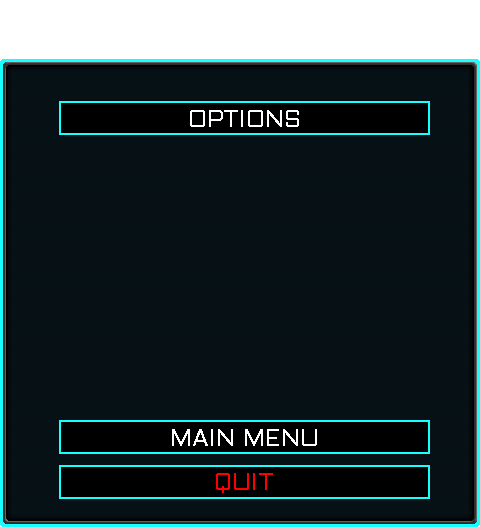
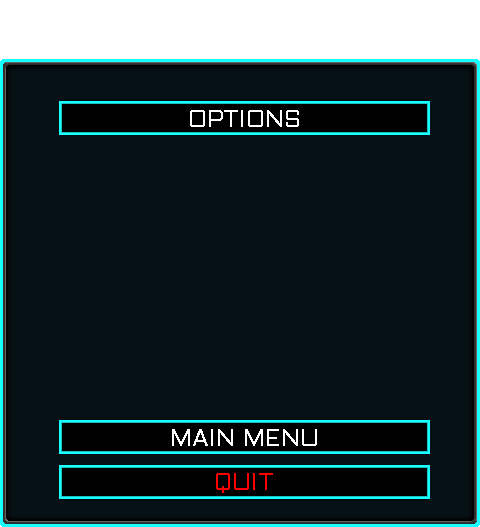
v0.04 	modified:   Main.py 	modified:   MenuManager.py 	modified:   __pycache__/MenuManager.cpython-311.pyc 	modified:   gfx/Interface/ESC_menu_background.png 	modified:   gfx/Interface/hovered_green_button_menu_image.png 	modified:   gfx/Interface/hovered_red_button_menu_image.png 	new file:   gfx/

Changed region(s): [[0.125, 0.8805, 0.1562, 0.9108]]

diff --git a/MenuManager.py b/MenuManager.py
@@ -27,24 +27,27 @@ class ESC_Menu:
 		menu_gui_height = self.ESC_menu_background.get_height()
 		
 		self.menu_gui_middle_x = (screen_width/2 - menu_gui_width/2)
-		self.menu_gui_middle_y = (screen_height/2 - menu_gui_height/2)		
+		self.menu_gui_middle_y = (screen_height/2 - menu_gui_height/2)	
 
-		options_button_width = 374 * self.factor_x
-		options_button_height = 35 * self.factor_y
-		options_button_x_offset = 57 * self.factor_x
-		options_button_y_offset = 100 * self.factor_y
+		self.hovered_green_button_menu_image = pygame.transform.smoothscale(hovered_green_button_menu_image, (371 * self.factor_x, 34 * self.factor_y))
+		self.hovered_red_button_menu_image = pygame.transform.smoothscale(hovered_red_button_menu_image, (371 * self.factor_x, 34 * self.factor_y))
+
+		options_button_width = 371 * self.factor_x
+		options_button_height = 34 * self.factor_y
+		options_button_x_offset = 59 * self.factor_x
+		options_button_y_offset = 101 * self.factor_y
 		self.options_button = GenericUtilitys.Button(self.menu_gui_middle_x + options_button_x_offset, self.menu_gui_middle_y + options_button_y_offset, options_button_width, options_button_height)
 		
-		main_menu_button_width = 374 * self.factor_x
-		main_menu_button_height = 35 * self.factor_y
-		main_menu_button_x_offset = 57 * self.factor_x
-		main_menu_button_y_offset = 419 * self.factor_y
+		main_menu_button_width = 371 * self.factor_x
+		main_menu_button_height = 34 * self.factor_y
+		main_menu_button_x_offset = 59 * self.factor_x
+		main_menu_button_y_offset = 420 * self.factor_y
 		self.main_menu_button = GenericUtilitys.Button(self.menu_gui_middle_x + main_menu_button_x_offset, self.menu_gui_middle_y + main_menu_button_y_offset, main_menu_button_width, main_menu_button_height)
 		
-		quit_button_width = 374 * self.factor_x
-		quit_button_height = 35 * self.factor_y
-		quit_button_x_offset = 57 * self.factor_x
-		quit_button_y_offset = 464 * self.factor_y
+		quit_button_width = 371 * self.factor_x
+		quit_button_height = 34 * self.factor_y
+		quit_button_x_offset = 59 * self.factor_x
+		quit_button_y_offset = 465 * self.factor_y
 		self.quit_button = GenericUtilitys.Button(self.menu_gui_middle_x + quit_button_x_offset, self.menu_gui_middle_y + quit_button_y_offset, quit_button_width, quit_button_height)						
 		
 
@@ -107,17 +110,19 @@ class Options_Menu:
 		
 		self.Sounds_Manager = Sounds_Manager
 
-		self.hovered_green_button_menu_image, self.hovered_red_button_menu_image =  hovered_green_button_menu_image, hovered_red_button_menu_image
 		self.hover_over_button_sound, self.click_menu_sound = generic_hover_over_button_menu_sound, generic_click_menu_sound
 		self.hovered_button = 'none'
 		self.last_hovered_button = None		
 
-		self.options_menu_background = options_menu_background
-
 		reference_screen_size_x = 1920
 		reference_screen_size_y = 1080
 		self.factor_x = screen_width / reference_screen_size_x
-		self.factor_y = screen_height / reference_screen_size_y		
+		self.factor_y = screen_height / reference_screen_size_y	
+
+		self.hovered_green_button_menu_image = pygame.transform.smoothscale(hovered_green_button_menu_image, (371 * self.factor_x, 34 * self.factor_y))
+		self.hovered_red_button_menu_image = pygame.transform.smoothscale(hovered_red_button_menu_image, (371 * self.factor_x, 34 * self.factor_y))		
+
+		self.options_menu_background = pygame.transform.smoothscale_by(options_menu_background, (self.factor_x,self.factor_y))			
 
 		menu_gui_width = self.options_menu_background.get_width()
 		menu_gui_height = self.options_menu_background.get_height()
@@ -126,23 +131,15 @@ class Options_Menu:
 		self.options_menu_gui_middle_y = (screen_height/2 - menu_gui_height/2)		
 
 
-		back_button_width = 374 * self.factor_x
-		back_button_height = int(35 * self.factor_y)
+		back_button_width = 371 * self.factor_x
+		back_button_height = 34 * self.factor_y
 		back_button_x_offset = 62 * self.factor_x
 		back_button_y_offset = 886 * self.factor_y
 		self.back_button = GenericUtilitys.Button(self.options_menu_gui_middle_x + back_button_x_offset, self.options_menu_gui_middle_y + back_button_y_offset, back_button_width, back_button_height)	
-
-		resolution_button_width = 374 * self.factor_x
-		resolution_button_height = int(35 * self.factor_y)
-		resolution_button_x_offset = 62 * self.factor_x
-		resolution_button_y_offset = 886 * self.factor_y
-		self.resolution_button = GenericUtilitys.Button(self.options_menu_gui_middle_x + resolution_button_x_offset, self.options_menu_gui_middle_y + resolution_button_y_offset,
-												  resolution_button_width, resolution_button_height)
 		
-		resolutions_button_width = 374 * self.factor_x
-		resolutions_button_height = int(35 * self.factor_y)
+		resolutions_button_width = 371 * self.factor_x
+		resolutions_button_height = 34 * self.factor_y
 		resolutions_button_x_offset = 62 * self.factor_x
-		
 		self.resolution_2560x1440_button = GenericUtilitys.Button(self.options_menu_gui_middle_x + resolutions_button_x_offset, self.options_menu_gui_middle_y + 100 * self.factor_y,
 												  resolutions_button_width, resolutions_button_height)	
 		self.resolution_1920x1080_button = GenericUtilitys.Button(self.options_menu_gui_middle_x + resolutions_button_x_offset, self.options_menu_gui_middle_y + 145 * self.factor_y,
@@ -154,7 +151,7 @@ class Options_Menu:
 		self.resolution_1280x1024_button = GenericUtilitys.Button(self.options_menu_gui_middle_x + resolutions_button_x_offset, self.options_menu_gui_middle_y + 280 * self.factor_y,
 												  resolutions_button_width, resolutions_button_height)										
 
-		self.clicked_resolution_button = 'resolution_1920x1080'
+		self.clicked_resolution_button = f'resolution_{screen_width}x{screen_height}'
 
 
 		self.brightness_slider = GenericUtilitys.Slide(self.options_menu_gui_middle_x + 457* self.factor_x, self.options_menu_gui_middle_y + 135* self.factor_y, 374* self.factor_x, 10* self.factor_y, 0, 180, 0)
@@ -189,6 +186,7 @@ class Options_Menu:
 		if clicked_button != 'none':
 			self.hover_over_button_sound.fadeout(150)
 			self.click_menu_sound.play()
+			self.clicked_resolution_button = clicked_button
 		return clicked_button
 	
 
@@ -252,7 +250,7 @@ class Options_Menu:
 
 
 class Main_Menu:
-	def __init__(self, screen_width, screen_height, pygame, game_logo, python_logo, menu_gui, main_menu_options_gui, hovered_green_button_menu_image, hovered_red_button_menu_image, 
+	def __init__(self, screen_width, screen_height, pygame, game_logo, python_logo, menu_gui, hovered_green_button_menu_image, hovered_red_button_menu_image, 
 			  new_game_menu_background, hover_over_button_sound, click_menu_sound):
 		self.hovered_button = 'none'
 		self.last_hovered_button ='none'
@@ -276,72 +274,61 @@ class Main_Menu:
 		self.factor_y = screen_height / reference_screen_size_y
 
 		self.python_logo = python_logo
-		self.python_logo = pygame.transform.smoothscale_by(self.python_logo, (self.factor_x,self. factor_y))
+		self.python_logo = pygame.transform.smoothscale_by(self.python_logo, (self.factor_x,self.factor_y))
 
 		self.game_logo = game_logo
-		self.game_logo = pygame.transform.smoothscale_by(self.game_logo, (self.factor_x,self. factor_y))
+		self.game_logo = pygame.transform.smoothscale_by(self.game_logo, (self.factor_x,self.factor_y))
 
-		self.menu_gui = pygame.transform.smoothscale_by(menu_gui, (self.factor_x,self. factor_y))
-		self.main_menu_options_gui = pygame.transform.smoothscale_by(main_menu_options_gui, (self.factor_x,self. factor_y))
+		self.menu_gui = pygame.transform.smoothscale_by(menu_gui, (self.factor_x,self.factor_y))
 		
-		self.hovered_green_button_menu_image = pygame.transform.smoothscale_by(hovered_green_button_menu_image, (self.factor_x, self.factor_y))
-		self.hovered_red_button_menu_image = pygame.transform.smoothscale_by(hovered_red_button_menu_image, (self.factor_x, self.factor_y))
-
-		self.small_hovered_green_button_menu_image = hovered_green_button_menu_image
-		self.small_hovered_red_button_menu_image = hovered_red_button_menu_image
+		self.hovered_green_button_menu_image = pygame.transform.smoothscale(hovered_green_button_menu_image, (371 * self.factor_x, 34 * self.factor_y))
+		self.hovered_red_button_menu_image = pygame.transform.smoothscale(hovered_red_button_menu_image, (371 * self.factor_x, 34 * self.factor_y))
 
 		
 		menu_gui_width = self.menu_gui.get_width()
 		menu_gui_height = self.menu_gui.get_height()
 		
 		self.menu_gui_middle_x = (screen_width - menu_gui_width*1.5)
-		self.menu_gui_middle_y = (screen_height - menu_gui_height) / 1.2
+		self.menu_gui_middle_y = (screen_height - menu_gui_height) / 1.2	
 
 		
-		options_menu_gui_width = self.main_menu_options_gui.get_width()
-		options_menu_gui_height = self.main_menu_options_gui.get_height()		
-
-		self.options_menu_gui_middle_x = (screen_width/2 - options_menu_gui_width/2)
-		self.options_menu_gui_middle_y = (screen_height - options_menu_gui_height) / 1.2
-
-		
-		start_button_width = 374 * self.factor_x
-		start_button_height = int(35 * self.factor_y)
-		start_button_x_offset = 48 * self.factor_x
+		start_button_width = 371 * self.factor_x
+		start_button_height = 34 * self.factor_y
+		start_button_x_offset = 49 * self.factor_x
 		start_button_y_offset = 459 * self.factor_y
 		self.start_button = GenericUtilitys.Button(self.menu_gui_middle_x + start_button_x_offset, self.menu_gui_middle_y + start_button_y_offset, start_button_width, start_button_height)	
 
-		quit_button_width = 374 * self.factor_x
-		quit_button_height = int(35 * self.factor_y)
-		quit_button_x_offset = 515 * self.factor_x
+		quit_button_width = 371 * self.factor_x
+		quit_button_height = 34 * self.factor_y
+		quit_button_x_offset = 516 * self.factor_x
 		quit_button_y_offset = 459 * self.factor_y
 		self.quit_button = GenericUtilitys.Button(self.menu_gui_middle_x + quit_button_x_offset, self.menu_gui_middle_y + quit_button_y_offset, quit_button_width, quit_button_height)	
 
 		self.is_options_menu_open = False
 
-		options_button_width = 374 * self.factor_x
-		options_button_height = int(35 * self.factor_y)
-		options_button_x_offset = 515 * self.factor_x
+		options_button_width = 371 * self.factor_x
+		options_button_height = 34 * self.factor_y
+		options_button_x_offset = 516 * self.factor_x
 		options_button_y_offset = 403 * self.factor_y
 		self.options_button = GenericUtilitys.Button(self.menu_gui_middle_x + options_button_x_offset, self.menu_gui_middle_y + options_button_y_offset, options_button_width, options_button_height)
 
 		# NEW GAME / LOAD SAVE  MENU
 
-		new_game_button_width = 374 * self.factor_x
-		new_game_button_height = int(35 * self.factor_y)
-		new_game_button_x_offset = 57 * self.factor_x
+		new_game_button_width = 371 * self.factor_x
+		new_game_button_height = 34 * self.factor_y
+		new_game_button_x_offset = 58 * self.factor_x
 		new_game_button_y_offset = 100 * self.factor_y
 		self.new_game_button = GenericUtilitys.Button(self.new_game_menu_background_middle_x + new_game_button_x_offset, self.new_game_menu_background_middle_y + new_game_button_y_offset, new_game_button_width, new_game_button_height)
 
-		load_save_button_width = 374 * self.factor_x
-		load_save_button_height = int(35 * self.factor_y)
-		load_save_button_x_offset = 57 * self.factor_x
-		load_save_button_y_offset = 152 * self.factor_y
+		load_save_button_width = 371 * self.factor_x
+		load_save_button_height = 34 * self.factor_y
+		load_save_button_x_offset = 58 * self.factor_x
+		load_save_button_y_offset = 151 * self.factor_y
 		self.load_save_button = GenericUtilitys.Button(self.new_game_menu_background_middle_x + load_save_button_x_offset, self.new_game_menu_background_middle_y + load_save_button_y_offset, load_save_button_width, load_save_button_height)
 
-		back_button_width = 374 * self.factor_x
-		back_button_height = int(35 * self.factor_y)
-		back_button_x_offset = 57 * self.factor_x
+		back_button_width = 371 * self.factor_x
+		back_button_height = 34 * self.factor_y
+		back_button_x_offset = 58 * self.factor_x
 		back_button_y_offset = 464 * self.factor_y
 		self.back_button = GenericUtilitys.Button(self.new_game_menu_background_middle_x + back_button_x_offset, self.new_game_menu_background_middle_y + back_button_y_offset, back_button_width, back_button_height)
 
@@ -429,11 +416,11 @@ class Main_Menu:
 			screen.blit(self.new_game_menu_background, (self.new_game_menu_background_middle_x, self.new_game_menu_background_middle_y))
 			if self.hovered_button != 'none':
 				if self.hovered_button == 'new_game':
-					screen.blit(self.small_hovered_green_button_menu_image, self.new_game_button.rect)
+					screen.blit(self.hovered_green_button_menu_image, self.new_game_button.rect)
 				elif self.hovered_button == 'load_save':
-					screen.blit(self.small_hovered_green_button_menu_image, self.load_save_button.rect)
+					screen.blit(self.hovered_green_button_menu_image, self.load_save_button.rect)
 				elif self.hovered_button == 'back':
-					screen.blit(self.small_hovered_green_button_menu_image, self.back_button.rect)										
+					screen.blit(self.hovered_green_button_menu_image, self.back_button.rect)										
 			else:
 				self.hover_over_button_sound.fadeout(200)
 

diff --git a/Main.py b/Main.py
@@ -5,8 +5,10 @@ from json import load as json_load, dump as json_dump
 
 exe_folder = os.path.dirname(sys.argv[0])
 
-screen_width = 1920
-screen_height = 1080
+with open(f'{exe_folder}\settings.txt', 'r') as file:
+	configs = json_load(file)
+	screen_width = configs["screen_width"]
+	screen_height = configs["screen_height"]
 
 
 import PygameManager
@@ -109,8 +111,8 @@ class Main:
 
 		self.game_logo = self.pygame.image.load(os.path.join(self.interface_folder, 'game_logo.png')).convert_alpha()
 
-		self.main_menu_menu_gui = self.pygame.image.load(os.path.join(self.interface_folder, 'menu_gui.png')).convert_alpha()
-		self.main_menu_options_gui = self.pygame.image.load(os.path.join(self.interface_folder, 'options_gui.png')).convert_alpha()
+		self.main_menu_UI = self.pygame.image.load(os.path.join(self.interface_folder, 'menu_UI.png')).convert_alpha()
+		self.menu_options_UI = self.pygame.image.load(os.path.join(self.interface_folder, 'options_UI.png')).convert_alpha()
 		self.hovered_green_button_menu_image = self.pygame.image.load(os.path.join(self.interface_folder, 'hovered_green_button_menu_image.png')).convert_alpha()
 		self.hovered_red_button_menu_image = self.pygame.image.load(os.path.join(self.interface_folder, 'hovered_red_button_menu_image.png')).convert_alpha()
 
@@ -660,38 +662,36 @@ your shoulders.
 	def create_classes(self):
 		self.Sounds_Manager = SoundsManager.Sounds_Manager(self.generic_hover_over_button_menu_sound, self.click_main_menu_sound, self.generic_click_menu_sound)
 
-		self.Options_Menu = MenuManager.Options_Menu(self.screen_width, self.screen_height, self.main_menu_options_gui, 
-											   self.Sounds_Manager.generic_hover_over_button_menu_sound, self.Sounds_Manager.click_main_menu_sound, 
-									   self.hovered_green_button_menu_image, self.hovered_red_button_menu_image, self.Sounds_Manager)
-		self.ESC_Menu = MenuManager.ESC_Menu(self.screen_width, self.screen_height, self.ESC_menu_background, 
-									   self.Sounds_Manager.generic_hover_over_button_menu_sound, self.Sounds_Manager.click_main_menu_sound, 
-									   self.hovered_green_button_menu_image, self.hovered_red_button_menu_image, self.Options_Menu)
-
-		self.Main_Menu = MenuManager.Main_Menu(self.screen_width, self.screen_height, self.pygame, self.game_logo, self.python_logo, self.main_menu_menu_gui, self.main_menu_options_gui, 
-										 self.hovered_green_button_menu_image, self.hovered_red_button_menu_image, self.new_game_menu_background, self.Sounds_Manager.generic_hover_over_button_menu_sound, 
-										 self.Sounds_Manager.click_main_menu_sound)
-	
+		self.Options_Menu = MenuManager.Options_Menu(self.screen_width, self.screen_height, self.menu_options_UI, 
+				self.Sounds_Manager.generic_hover_over_button_menu_sound, self.Sounds_Manager.click_main_menu_sound, self.hovered_green_button_menu_image,
+				self.hovered_red_button_menu_image, self.Sounds_Manager)
 		
+		self.ESC_Menu = MenuManager.ESC_Menu(self.screen_width, self.screen_height, self.ESC_menu_background, 
+				self.Sounds_Manager.generic_hover_over_button_menu_sound, self.Sounds_Manager.click_main_menu_sound, self.hovered_green_button_menu_image,
+				self.hovered_red_button_menu_image, self.Options_Menu)
+
+		self.Main_Menu = MenuManager.Main_Menu(self.screen_width, self.screen_height, self.pygame, self.game_logo, self.python_logo, self.main_menu_UI, self.hovered_green_button_menu_image,
+				self.hovered_red_button_menu_image, self.new_game_menu_background, self.Sounds_Manager.generic_hover_over_button_menu_sound, self.Sounds_Manager.click_main_menu_sound)
+
 		self.Scenario_Selection_Menu = MenuManager.Scenario_Selection_Menu(self.screen_width, self.screen_height, self.pygame, self.game_logo, self.python_logo,
-									self.scenario_selection_menu_gui, self.hovered_select_scenario_button_menu_image, self.hovered_back_to_main_menu_button_menu_image,
-									self.Sounds_Manager.generic_hover_over_button_menu_sound, self.Sounds_Manager.click_main_menu_sound)
+				self.scenario_selection_menu_gui, self.hovered_select_scenario_button_menu_image, self.hovered_back_to_main_menu_button_menu_image,
+				self.Sounds_Manager.generic_hover_over_button_menu_sound, self.Sounds_Manager.click_main_menu_sound)
 
 
 		self.Country_Selection_Flag_Selection_Menu = MenuManager.Country_Selection_Flag_Selection_Menu(screen_width, screen_height, self.countries, 
-											       self.Sounds_Manager.generic_hover_over_button_menu_sound, self.Sounds_Manager.generic_click_menu_sound)
+				self.Sounds_Manager.generic_hover_over_button_menu_sound, self.Sounds_Manager.generic_click_menu_sound)
 		self.Country_Selection_National_Spirits_Selection_Menu = MenuManager.Country_Selection_National_Spirits_Selection_Menu(self.screen_width, self.screen_height, 
-														       self.national_spirits_background, self.generic_national_spirits, self.Sounds_Manager.generic_hover_over_button_menu_sound,
-															   self.Sounds_Manager.click_main_menu_sound)
+				self.national_spirits_background, self.generic_national_spirits, self.Sounds_Manager.generic_hover_over_button_menu_sound, self.Sounds_Manager.click_main_menu_sound)
 		self.Country_Selection_Menu = MenuManager.Country_Selection_Menu(self.Country_Selection_Flag_Selection_Menu, self.Country_Selection_National_Spirits_Selection_Menu, 
-								 	self.screen_width, self.screen_height, self.pygame, self.Sounds_Manager.generic_hover_over_button_menu_sound, self.Sounds_Manager.generic_click_menu_sound, 
-									self.country_selection_background, self.country_info_display_background, self.political_compass_image, self.ideologies_CRT_overlay_effect,
-									self.hovered_start_game_button, self.hovered_select_national_spirit_button_image, self.hovered_select_flag_style_button_image, 
-									self.hovered_laws_button_image, self.generic_leader, self.CRT_flag_overlay_effect, self.blocked_select_national_spirit_button, 
-									self.blocked_select_flag_style_button, self.blocked_start_game_button, self.blocked_full_right_side, self.blocked_all_laws)
+				self.screen_width, self.screen_height, self.pygame, self.Sounds_Manager.generic_hover_over_button_menu_sound, self.Sounds_Manager.generic_click_menu_sound, 
+				self.country_selection_background, self.country_info_display_background, self.political_compass_image, self.ideologies_CRT_overlay_effect,
+				self.hovered_start_game_button, self.hovered_select_national_spirit_button_image, self.hovered_select_flag_style_button_image, 
+				self.hovered_laws_button_image, self.generic_leader, self.CRT_flag_overlay_effect, self.blocked_select_national_spirit_button, 
+				self.blocked_select_flag_style_button, self.blocked_start_game_button, self.blocked_full_right_side, self.blocked_all_laws)
 		
 		self.Screen_Manager = ScreenManager.Screen(self.pygame, self.display, self.screen, self.surface_alfa, self.Main_Menu, self.Country_Selection_Menu,
-											self.Scenario_Selection_Menu, self.ESC_Menu, self.main_menu_backgound, 
-											self.python_logo)
+				self.Scenario_Selection_Menu, self.ESC_Menu, self.main_menu_backgound, self.python_logo)
+		
 	def setup_variables(self):
 		self.screen_center = (self.screen_width/2, self.screen_height/2)
 
@@ -753,13 +753,13 @@ your shoulders.
 							if self.clicked_button != 'none':
 								if self.Main_Menu.is_in_new_game_menu == False:
 									if self.clicked_button == 'start':
-										self.pygame.time.delay(100)
+										self.pygame.time.delay(50)
 										self.Main_Menu.is_in_new_game_menu = True
 									elif self.clicked_button == 'quit':
-										self.pygame.time.delay(200)
+										self.pygame.time.delay(50)
 										self.starting_the_game = False
 									elif self.clicked_button == 'options':
-										self.pygame.time.delay(200)
+										self.pygame.time.delay(50)
 										self.is_options_menu_open = True
 								else:
 									if self.clicked_button == 'new_game':
